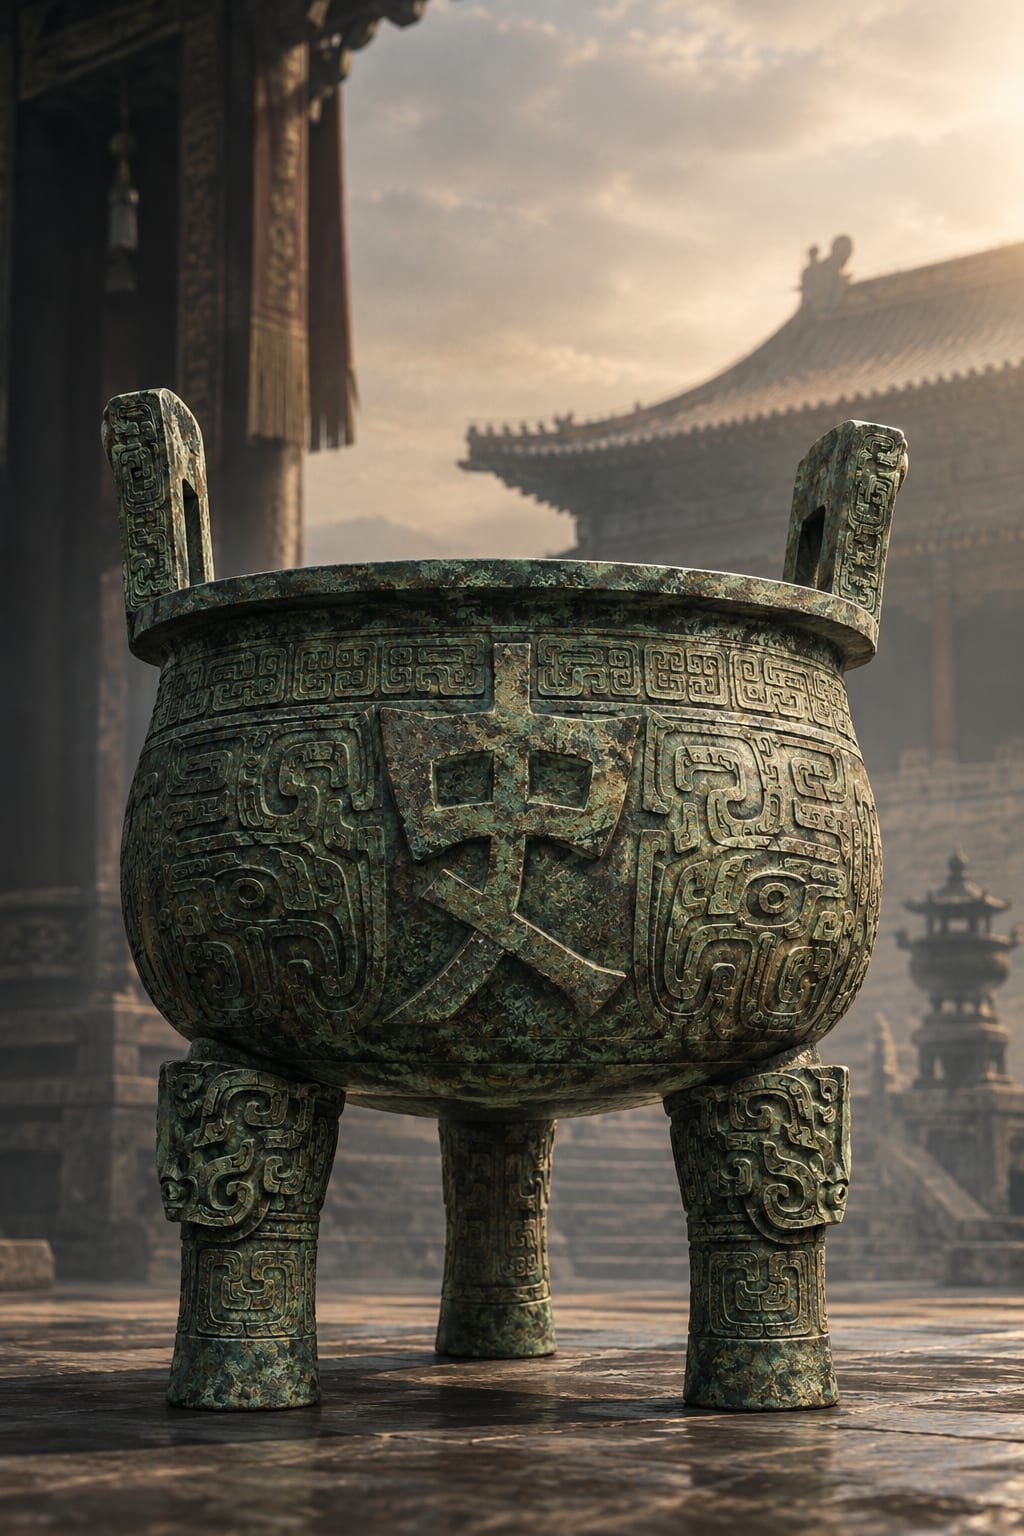
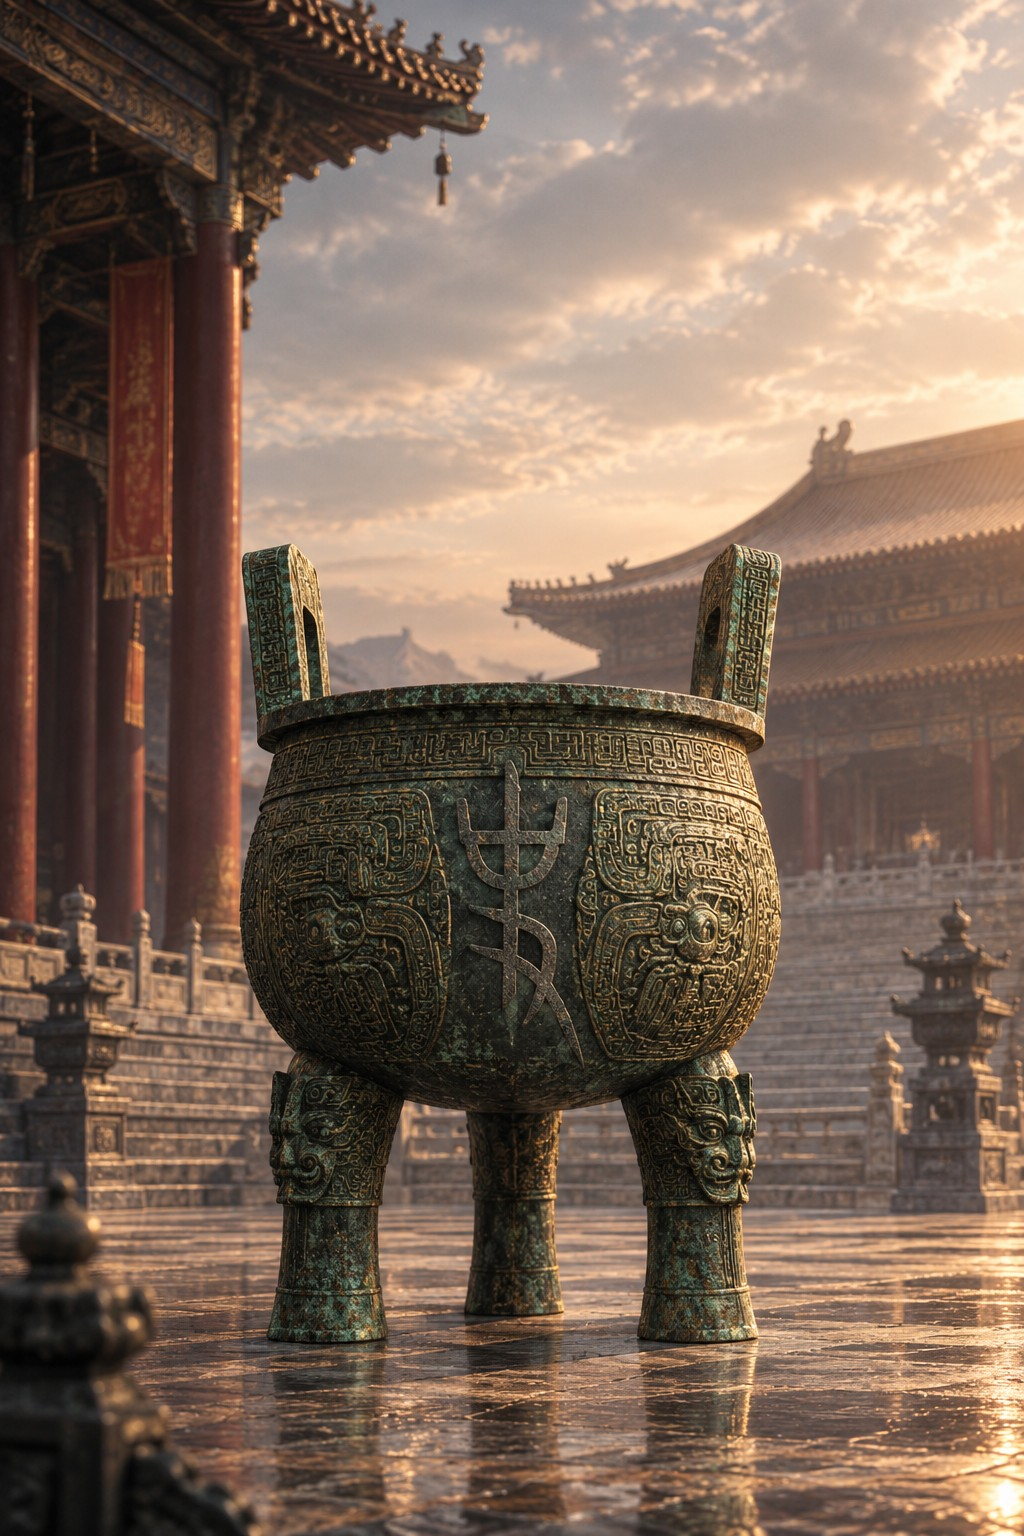
Nueva foto de portada con más aire alrededor de la vasija
Sustituye la imagen de portada por una toma con más espacio de patio/
templo alrededor de la vasija, mismas dimensiones (1024x1536) para
que el recorte existente siga funcionando igual.

De paso, el título "China History" solo se veía bien en móvil — en
pantallas md+ el panel es de altura completa y quedaba demasiado
arriba y pequeño en proporción a la imagen. Se agranda y se baja solo
para md+ (móvil intacto), ahora encaja entre el techo del pabellón y
el asa superior de la vasija.

diff --git a/app/components/ResultPanels.tsx b/app/components/ResultPanels.tsx
@@ -31,9 +31,9 @@ export function PortadaPanel({ children }: { children?: React.ReactNode }) {
           centrado se cortan los pies de la vasija; al 80 % sale entera con
           algo de suelo debajo y las asas aún dentro. */}
       <img src="/portada.jpg" alt="" className="h-full w-full object-cover object-[50%_80%]" />
-      <div className="pointer-events-none absolute inset-x-0 top-0 h-36 bg-linear-to-b from-ink/70 to-transparent" />
-      <div className="pointer-events-none absolute inset-x-16 top-5 flex flex-col items-center gap-1 text-center text-paper drop-shadow-md">
-        <h1 className="font-brush text-2xl font-bold leading-tight">China History</h1>
+      <div className="pointer-events-none absolute inset-x-0 top-0 h-36 bg-linear-to-b from-ink/70 to-transparent md:h-56" />
+      <div className="pointer-events-none absolute inset-x-16 top-5 flex flex-col items-center gap-1 text-center text-paper drop-shadow-md md:top-36">
+        <h1 className="font-brush text-2xl font-bold leading-tight md:text-5xl">China History</h1>
       </div>
       {children}
     </div>
